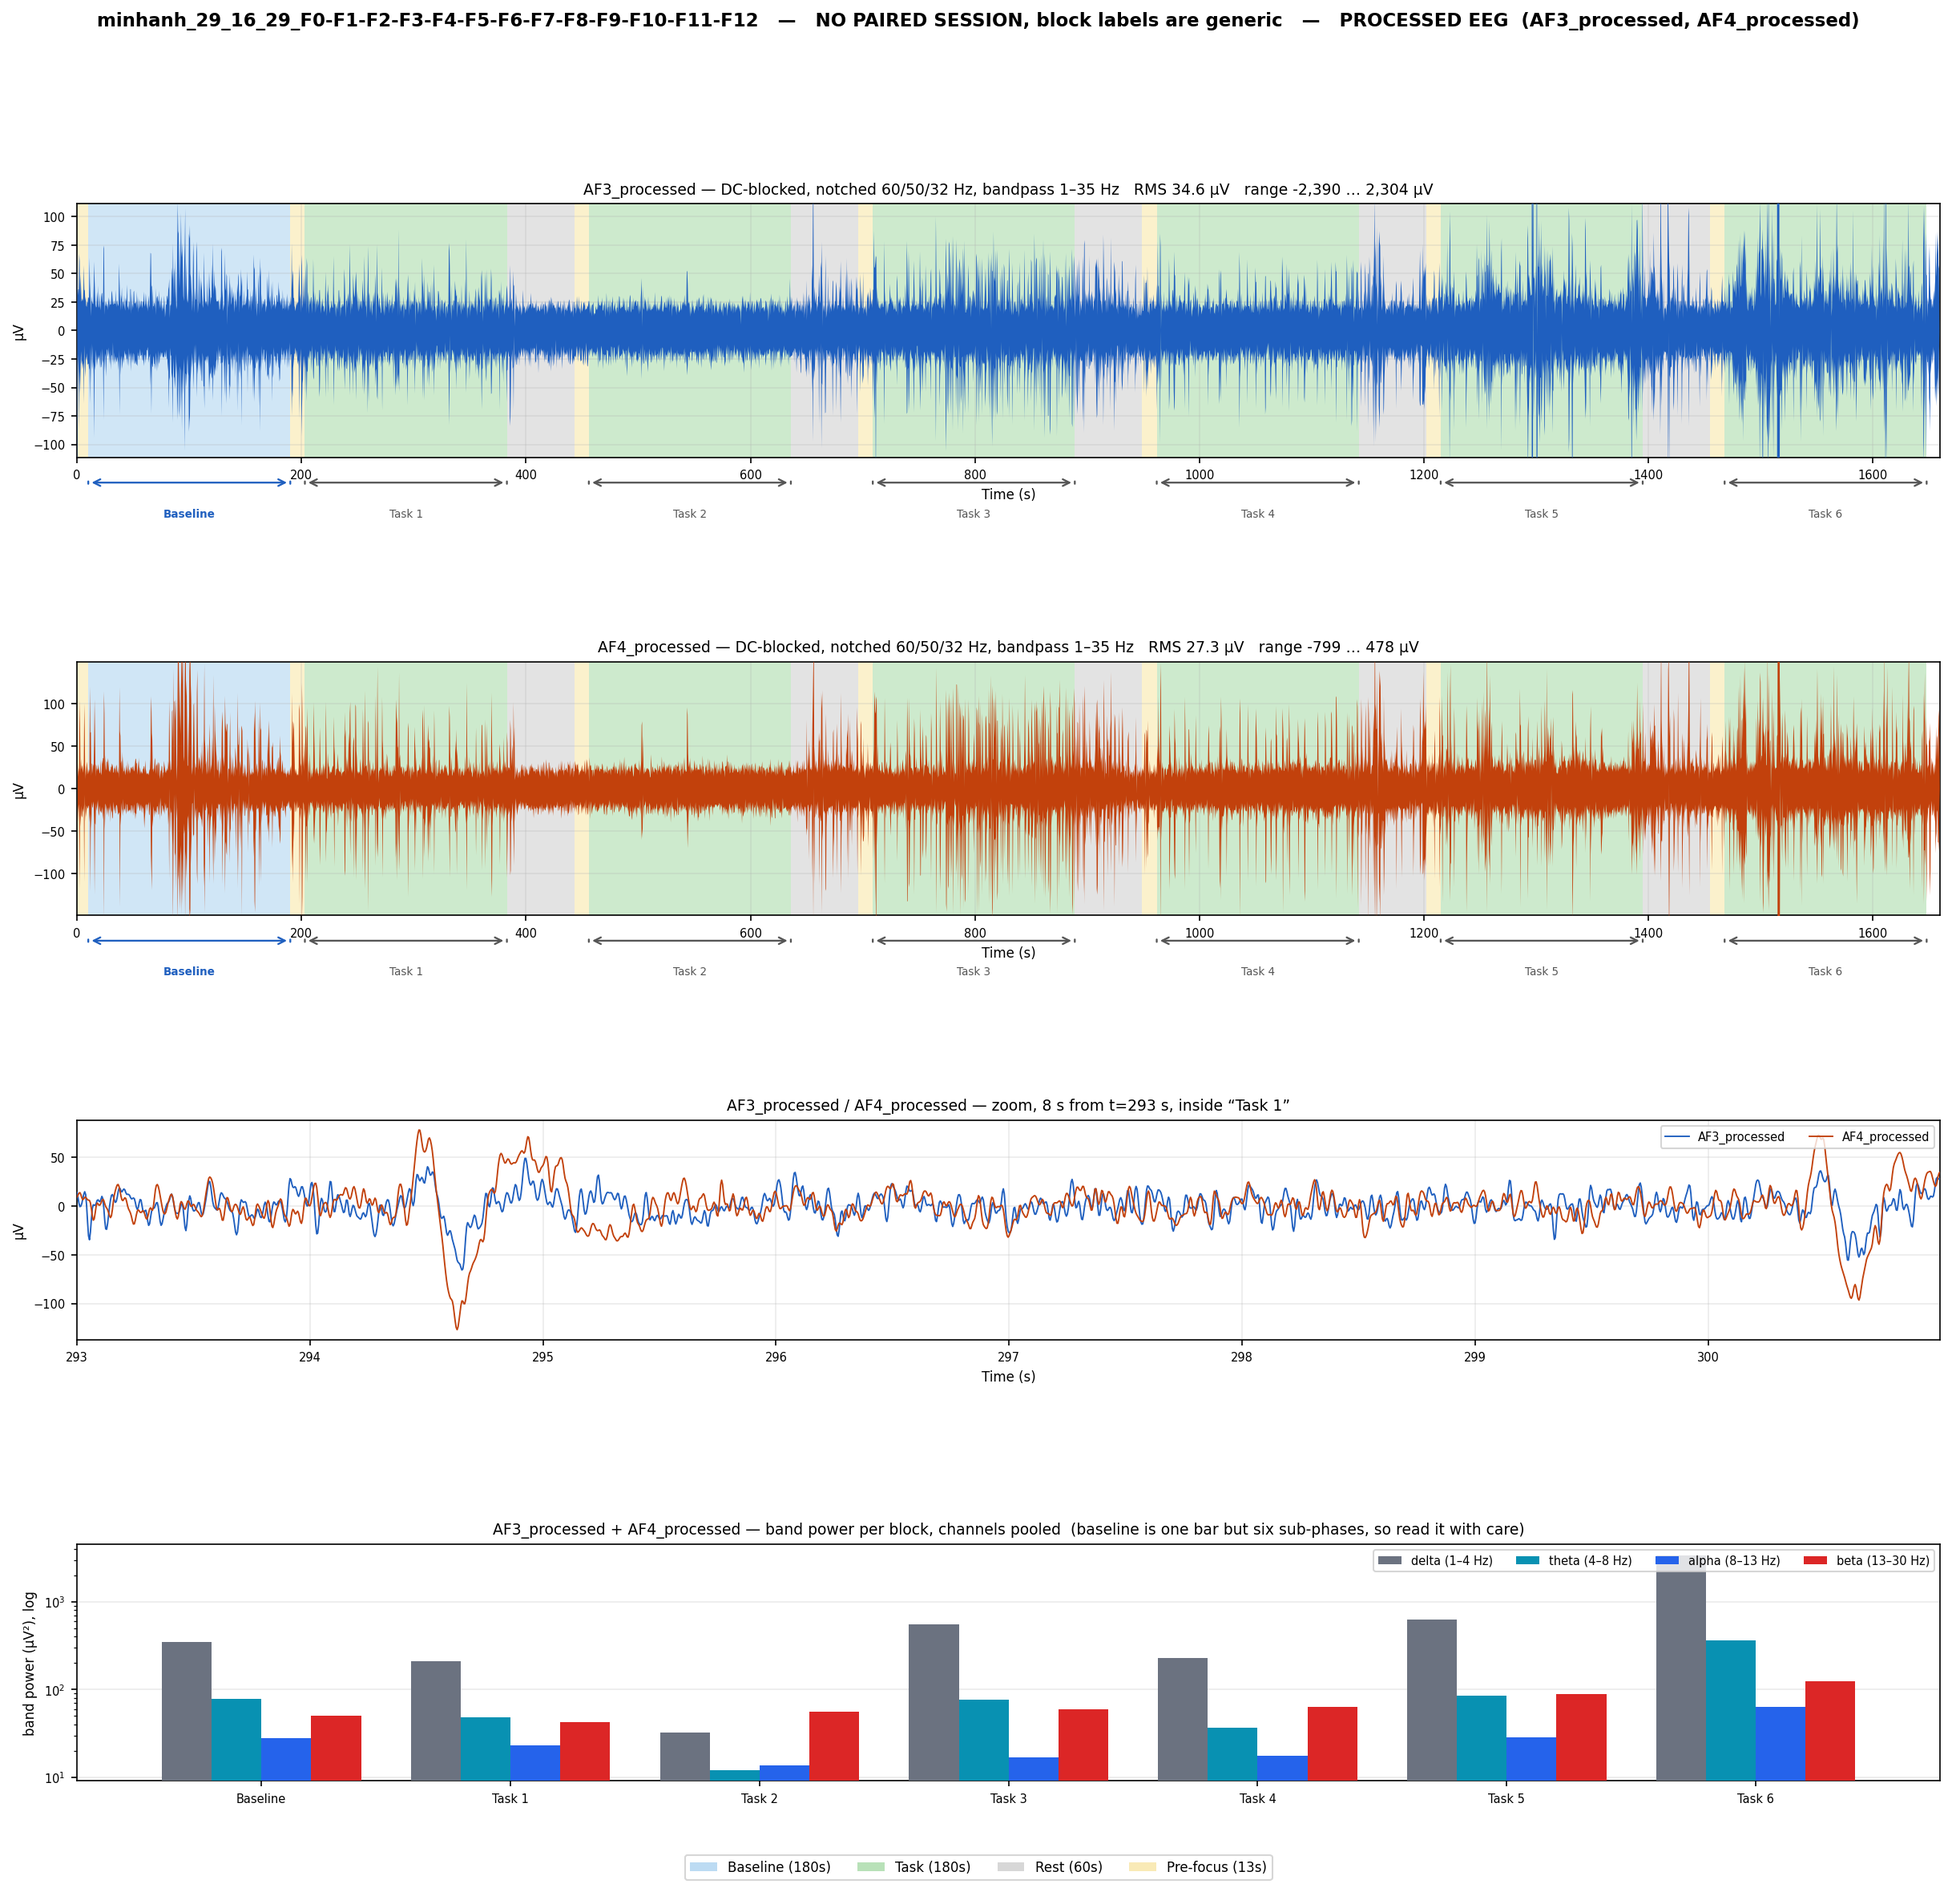
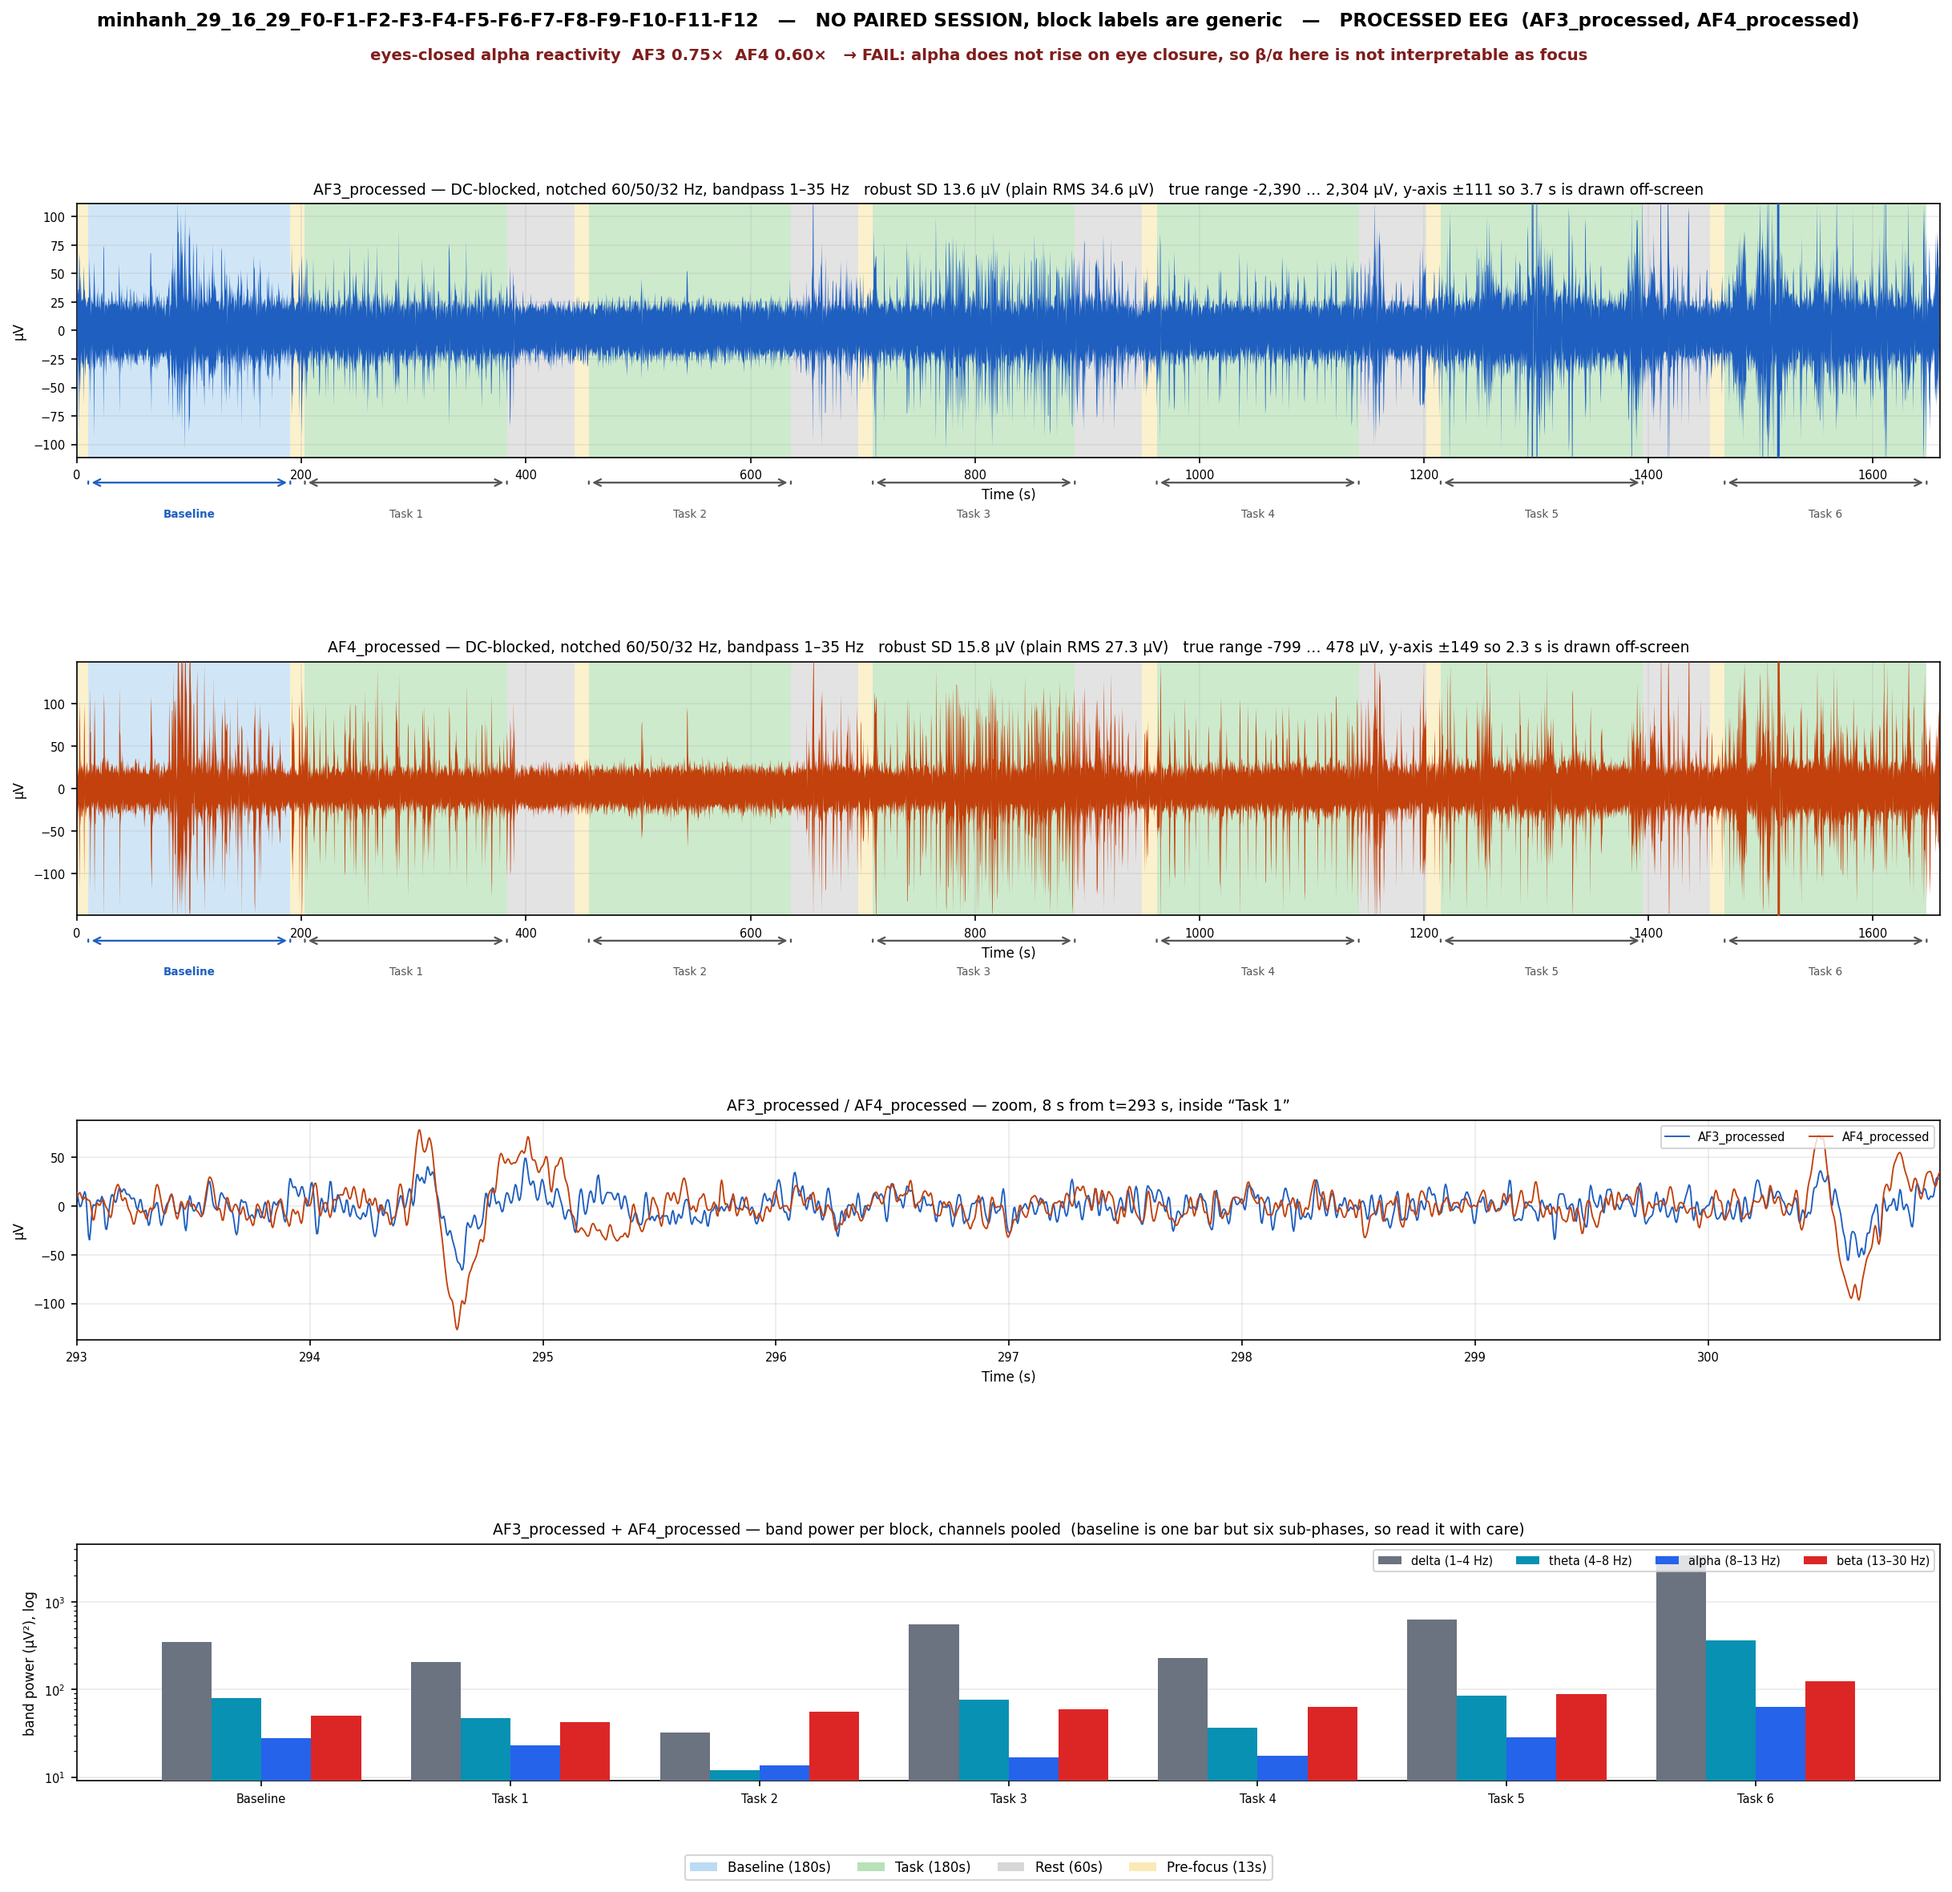
Make the EEG figures state their own validity
Adversarial verification found the figures flattering the data in three ways, all now fixed: the y-axis clipped the largest transients while the docstring promised none were hidden (now each title gives robust SD, plain RMS, and how many seconds are off-screen); band power and the alpha check concatenated AF3+AF4 before Welch, taking the PSD across the splice and letting the noisier channel dominate (now per-channel PSDs averaged, alpha reported per channel); and the eyes-closed alpha ratio - the one built-in validity check - was printed only to stdout (now a PASS/FAIL banner on the figure).

ban: robust SD 30.7/25.1 uV against RMS 83/151, alpha 1.36x/1.29x PASS. minhanh: robust SD 13.6/15.8 against RMS 35/27, alpha 0.75x/0.60x FAIL. Quoting RMS alone made ban look unusable and minhanh look clean; both were misleading.

Also corrected two false comments in session_timeline.py: the +9.9 s offset attributed to minhanh is not measurable (it has no task.csv cue times), and task.csv times are block-relative rather than session-relative, so it cannot verify block onsets at all.

diff --git a/code/analysis/plot_eeg.py b/code/analysis/plot_eeg.py
@@ -13,9 +13,25 @@ what `compute_fi_timeline()` was given. `_processed` means DC blocking, notch at
 
 Panels
 ------
-  1-2  each channel across the session, min/max envelope so no spike is hidden
+  1-2  each channel across the session, drawn as a per-pixel min/max band so no
+       sample is skipped by decimation. The Y AXIS IS STILL CLIPPED, to the 99.7th
+       percentile — these recordings contain transients running several times that,
+       and scaling to them would flatten the EEG into a line. Each title states how
+       much is drawn off-screen, and gives both the plain RMS and a robust SD
+       (1.4826·MAD): for ban's AF4 those are 151 µV and 25 µV, because the top 0.1%
+       of samples hold ~65% of the variance. Quote the robust figure when you mean
+       "how big is the EEG".
   3    a short zoom, where individual rhythms are actually resolvable
-  4    band power per block — what changes task to task, which a trace cannot show
+  4    band power per block — what changes task to task, which a trace cannot show.
+       Each channel's PSD is computed separately and then averaged; concatenating
+       the two channels before Welch would take the PSD across the splice and let
+       the noisier channel dominate.
+
+The baseline's eyes-closed/eyes-open alpha ratio is computed per channel and shown
+in the figure, because it is the one built-in physiological validity check these
+recordings carry. A ratio at or below 1 means alpha did not rise on eye closure and
+nothing derived from the recording — least of all a β/α focus index — should be
+trusted.
 
 A note on `_processed` vs `_denoised`
 ------------------------------------
@@ -112,6 +128,26 @@ def band_powers(x, fs, lo, hi):
     return float(np.trapezoid(P[m], fr[m])) if m.any() else np.nan
 
 
+def band_powers_pooled(segs, fs, lo, hi):
+    """Mean band power across channels — each PSD computed on its own segment.
+
+    Never concatenate the channels first: that takes the PSD across the splice and
+    weights whichever channel carries more power, which for a transient-heavy
+    channel is not the one you want deciding the answer.
+    """
+    vals = [band_powers(s, fs, lo, hi) for s in segs]
+    vals = [v for v in vals if np.isfinite(v)]
+    return float(np.mean(vals)) if vals else np.nan
+
+
+def robust_sd(x):
+    """1.4826·MAD — an amplitude that rare transients cannot inflate."""
+    finite = x[np.isfinite(x)]
+    if finite.size == 0:
+        return float("nan")
+    return float(1.4826 * np.median(np.abs(finite - np.median(finite))))
+
+
 def task_blocks(windows):
     return [w for w in windows
             if not w["is_interval"] and not w.get("is_prefocus")]
@@ -131,9 +167,22 @@ def plot_recording(stem, edf_path, quality, windows, title, save_path,
         zoom_at = (first["t_start"] + first["t_end"]) / 2 if first else dur / 2
     zoom_at = max(0.0, min(float(zoom_at), max(0.0, dur - zoom_len)))
 
+    # The baseline's own eyes-closed phase is the only physiological validity check
+    # these recordings carry, so it belongs on the figure, not just in stdout.
+    alpha = _alpha_reactivity(proc, fs, windows)
+    ok = all(np.isfinite(v) and v > 1.15 for v in alpha.values()) if alpha else False
+    banner = ("eyes-closed alpha reactivity  "
+              + "  ".join(f"{ch} {v:.2f}×" for ch, v in alpha.items())
+              + ("   → PASS, alpha rises on eye closure"
+                 if ok else
+                 "   → FAIL: alpha does not rise on eye closure, so β/α here is not "
+                 "interpretable as focus"))
+
     fig = plt.figure(figsize=(20, 16))
     fig.suptitle(f"{title}   —   PROCESSED EEG  ({', '.join(EEG_CHANNELS)})",
                  fontsize=11, fontweight="bold")
+    fig.text(0.5, 0.955, banner, ha="center", fontsize=9.5,
+             fontweight="bold", color="#14532d" if ok else "#7f1d1d")
     gs = gridspec.GridSpec(4, 1, height_ratios=[3, 3, 2.6, 2.8], hspace=0.85)
 
     # ── Panels 1-2: whole session, one per channel ───────────────────────────
@@ -144,10 +193,14 @@ def plot_recording(stem, edf_path, quality, windows, title, save_path,
         shade_timeline(ax, windows, x_scale=1.0, x_max=dur)
         ax.fill_between(t, lo, hi, color=CH_COLORS[ch], lw=0, zorder=3)
         ax.set_xlim(0, dur)
-        ax.set_ylim(*robust_ylim(x))
+        ylo, yhi = robust_ylim(x)
+        ax.set_ylim(ylo, yhi)
+        off = float(np.mean(np.abs(x) > yhi)) * len(x) / fs      # seconds off-screen
         ax.set_title(f"{ch}_processed — DC-blocked, notched 60/50/32 Hz, "
-                     f"bandpass 1–35 Hz   RMS {np.std(x):.1f} µV   "
-                     f"range {np.nanmin(x):,.0f} … {np.nanmax(x):,.0f} µV",
+                     f"bandpass 1–35 Hz   robust SD {robust_sd(x):.1f} µV "
+                     f"(plain RMS {np.std(x):.1f} µV)   "
+                     f"true range {np.nanmin(x):,.0f} … {np.nanmax(x):,.0f} µV, "
+                     f"y-axis ±{yhi:,.0f} so {off:.1f} s is drawn off-screen",
                      fontsize=9)
         ax.set_xlabel("Time (s)", fontsize=8)
         ax.set_ylabel("µV", fontsize=8)
@@ -181,8 +234,8 @@ def plot_recording(stem, edf_path, quality, windows, title, save_path,
         vals = []
         for w in blocks:
             a, b = int(w["t_start"] * fs), int(w["t_end"] * fs)
-            seg = np.concatenate([proc["AF3"][a:b], proc["AF4"][a:b]])
-            vals.append(band_powers(seg, fs, blo, bhi))
+            vals.append(band_powers_pooled(
+                [proc["AF3"][a:b], proc["AF4"][a:b]], fs, blo, bhi))
         ax4.bar(xs + bi * width - 0.4 + width / 2, vals, width,
                 color=bcolor, label=f"{bname} ({blo}–{bhi} Hz)", zorder=3)
     ax4.set_yscale("log")
@@ -210,8 +263,9 @@ def plot_recording(stem, edf_path, quality, windows, title, save_path,
 
     return dict(stem=stem, quality=quality, fs=fs, dur=dur,
                 rms={ch: float(np.std(proc[ch])) for ch in proc},
+                robust={ch: robust_sd(proc[ch]) for ch in proc},
                 has_denoised=bool(denoised),
-                alpha_ratio=_alpha_reactivity(proc, fs, windows))
+                alpha_ratio=alpha, alpha_pass=ok)
 
 
 def _alpha_reactivity(proc, fs, windows):
@@ -223,15 +277,18 @@ def _alpha_reactivity(proc, fs, windows):
     """
     base = next((w for w in windows if w["is_baseline"]), None)
     if base is None:
-        return float("nan")
-    def rel(t0, t1):
+        return {}
+    def rel(ch, t0, t1):
         a, b = int((base["t_start"] + t0) * fs), int((base["t_start"] + t1) * fs)
-        seg = np.concatenate([proc["AF3"][a:b], proc["AF4"][a:b]])
+        seg = proc[ch][a:b]
         tot = band_powers(seg, fs, 2, 40)
         al = band_powers(seg, fs, EEG_ALPHA[0], EEG_ALPHA[1])
         return al / tot if tot and np.isfinite(tot) else np.nan
-    eo, ec = rel(10, 70), rel(120, 180)
-    return float(ec / eo) if eo and np.isfinite(eo) else float("nan")
+    out = {}
+    for ch in ("AF3", "AF4"):
+        eo, ec = rel(ch, 10, 70), rel(ch, 120, 180)
+        out[ch] = float(ec / eo) if eo and np.isfinite(eo) else float("nan")
+    return out
 
 
 def main():
@@ -279,10 +336,12 @@ def main():
     if rows:
         print(f"\n{'=' * 78}\nProcessed-EEG summary\n{'=' * 78}")
         for r in rows:
+            a = "  ".join(f"{ch} {v:.2f}x" for ch, v in r["alpha_ratio"].items())
             print(f"  {r['stem'][:30]:30s} {r['quality']:14s} "
-                  f"AF3 {r['rms']['AF3']:7.1f} µV  AF4 {r['rms']['AF4']:7.1f} µV  "
-                  f"eyes-closed/open alpha {r['alpha_ratio']:.2f}x  "
-                  f"{'(WPT channel present but unused)' if r['has_denoised'] else ''}")
+                  f"robust SD AF3 {r['robust']['AF3']:6.1f} AF4 {r['robust']['AF4']:6.1f} µV "
+                  f"(RMS {r['rms']['AF3']:.0f}/{r['rms']['AF4']:.0f})  "
+                  f"alpha {a}  {'PASS' if r['alpha_pass'] else 'FAIL'}"
+                  f"{'  [WPT channel written but never read]' if r['has_denoised'] else ''}")
     return 0
 
 

diff --git a/code/analysis/session_timeline.py b/code/analysis/session_timeline.py
@@ -48,12 +48,18 @@ from datetime import datetime, timedelta
 # run_all_experiments.py calls wait_for_start(), which blocks on SPACE with no
 # time limit, BEFORE the 10 s BASELINE_INTRO screen. The true gap is therefore
 # 10 s plus however long the operator left the welcome screen up after starting
-# the headband. Measured from the baseline's own blink cues and the eyes-closed
-# alpha edge: +11.7 s for ban_29_14_40 and +9.9 s for minhanh_29_16_29 — so the
-# term really does vary between recordings. At ±2 s it shifts a 180 s block label
-# by ~1%, which is harmless, but it is not safe to assume for a recording started
-# well before or after the SPACE press. Pass t0 (run_session_analysis --offset)
-# when a recording's own markers say otherwise.
+# the headband. For ban_29_14_40 the baseline's five logged blink cues put the true
+# gap at 11.95-12.15 s, and that closes against the wall clock: saved_at 15:08:25
+# minus the 1650.3 s timeline puts the intro at 14:40:55, so recording t=0 lands at
+# 14:40:53 — matching the 14:40 in the filename. So 10.0 s is ~2 s short here,
+# about 1% of a 180 s block, and harmless. It is NOT measurable for a recording
+# with no paired task.csv (minhanh_29_16_29 has no cue times to match against).
+# Pass t0 (run_session_analysis --offset) when a recording's own markers disagree.
+#
+# Do NOT confuse this with the `offset_s` that find_session_for_recording reports.
+# That is the gap from session-folder creation to recording start — 645 s for ban,
+# spent on the demographics dialog and the untimed SPACE wait. Feeding it in as t0
+# would misalign the timeline by nearly 11 minutes.
 INTRO_S       = 10.0    # SESSION["welcome_s"]    — BASELINE_INTRO screen
 BASELINE_S    = 180.0   # sum of SESSION["baseline_phases"]
 REST_S        = 60.0    # SESSION["rest_s"]
@@ -108,7 +114,9 @@ def load_session(session_dir):
 def measure_block_durations(session_dir):
     """Actual block durations in seconds, per task_type, from task.csv.
 
-    Only the blocks that log session-relative timestamps can be measured:
+    Every block's time_ms restarts at 0, so task.csv holds BLOCK-relative times and
+    no absolute clock — durations are recoverable from it, block onsets are not.
+    Only the blocks that log a start and an end marker can be measured at all:
     Baseline (baseline_start → baseline_end), Fairy Tale and Passive Video
     (task_start → task_end). Addition / Multiplication / Stroop A / CPT-X record
     per-trial reaction times only, so their length is not recoverable — they are
